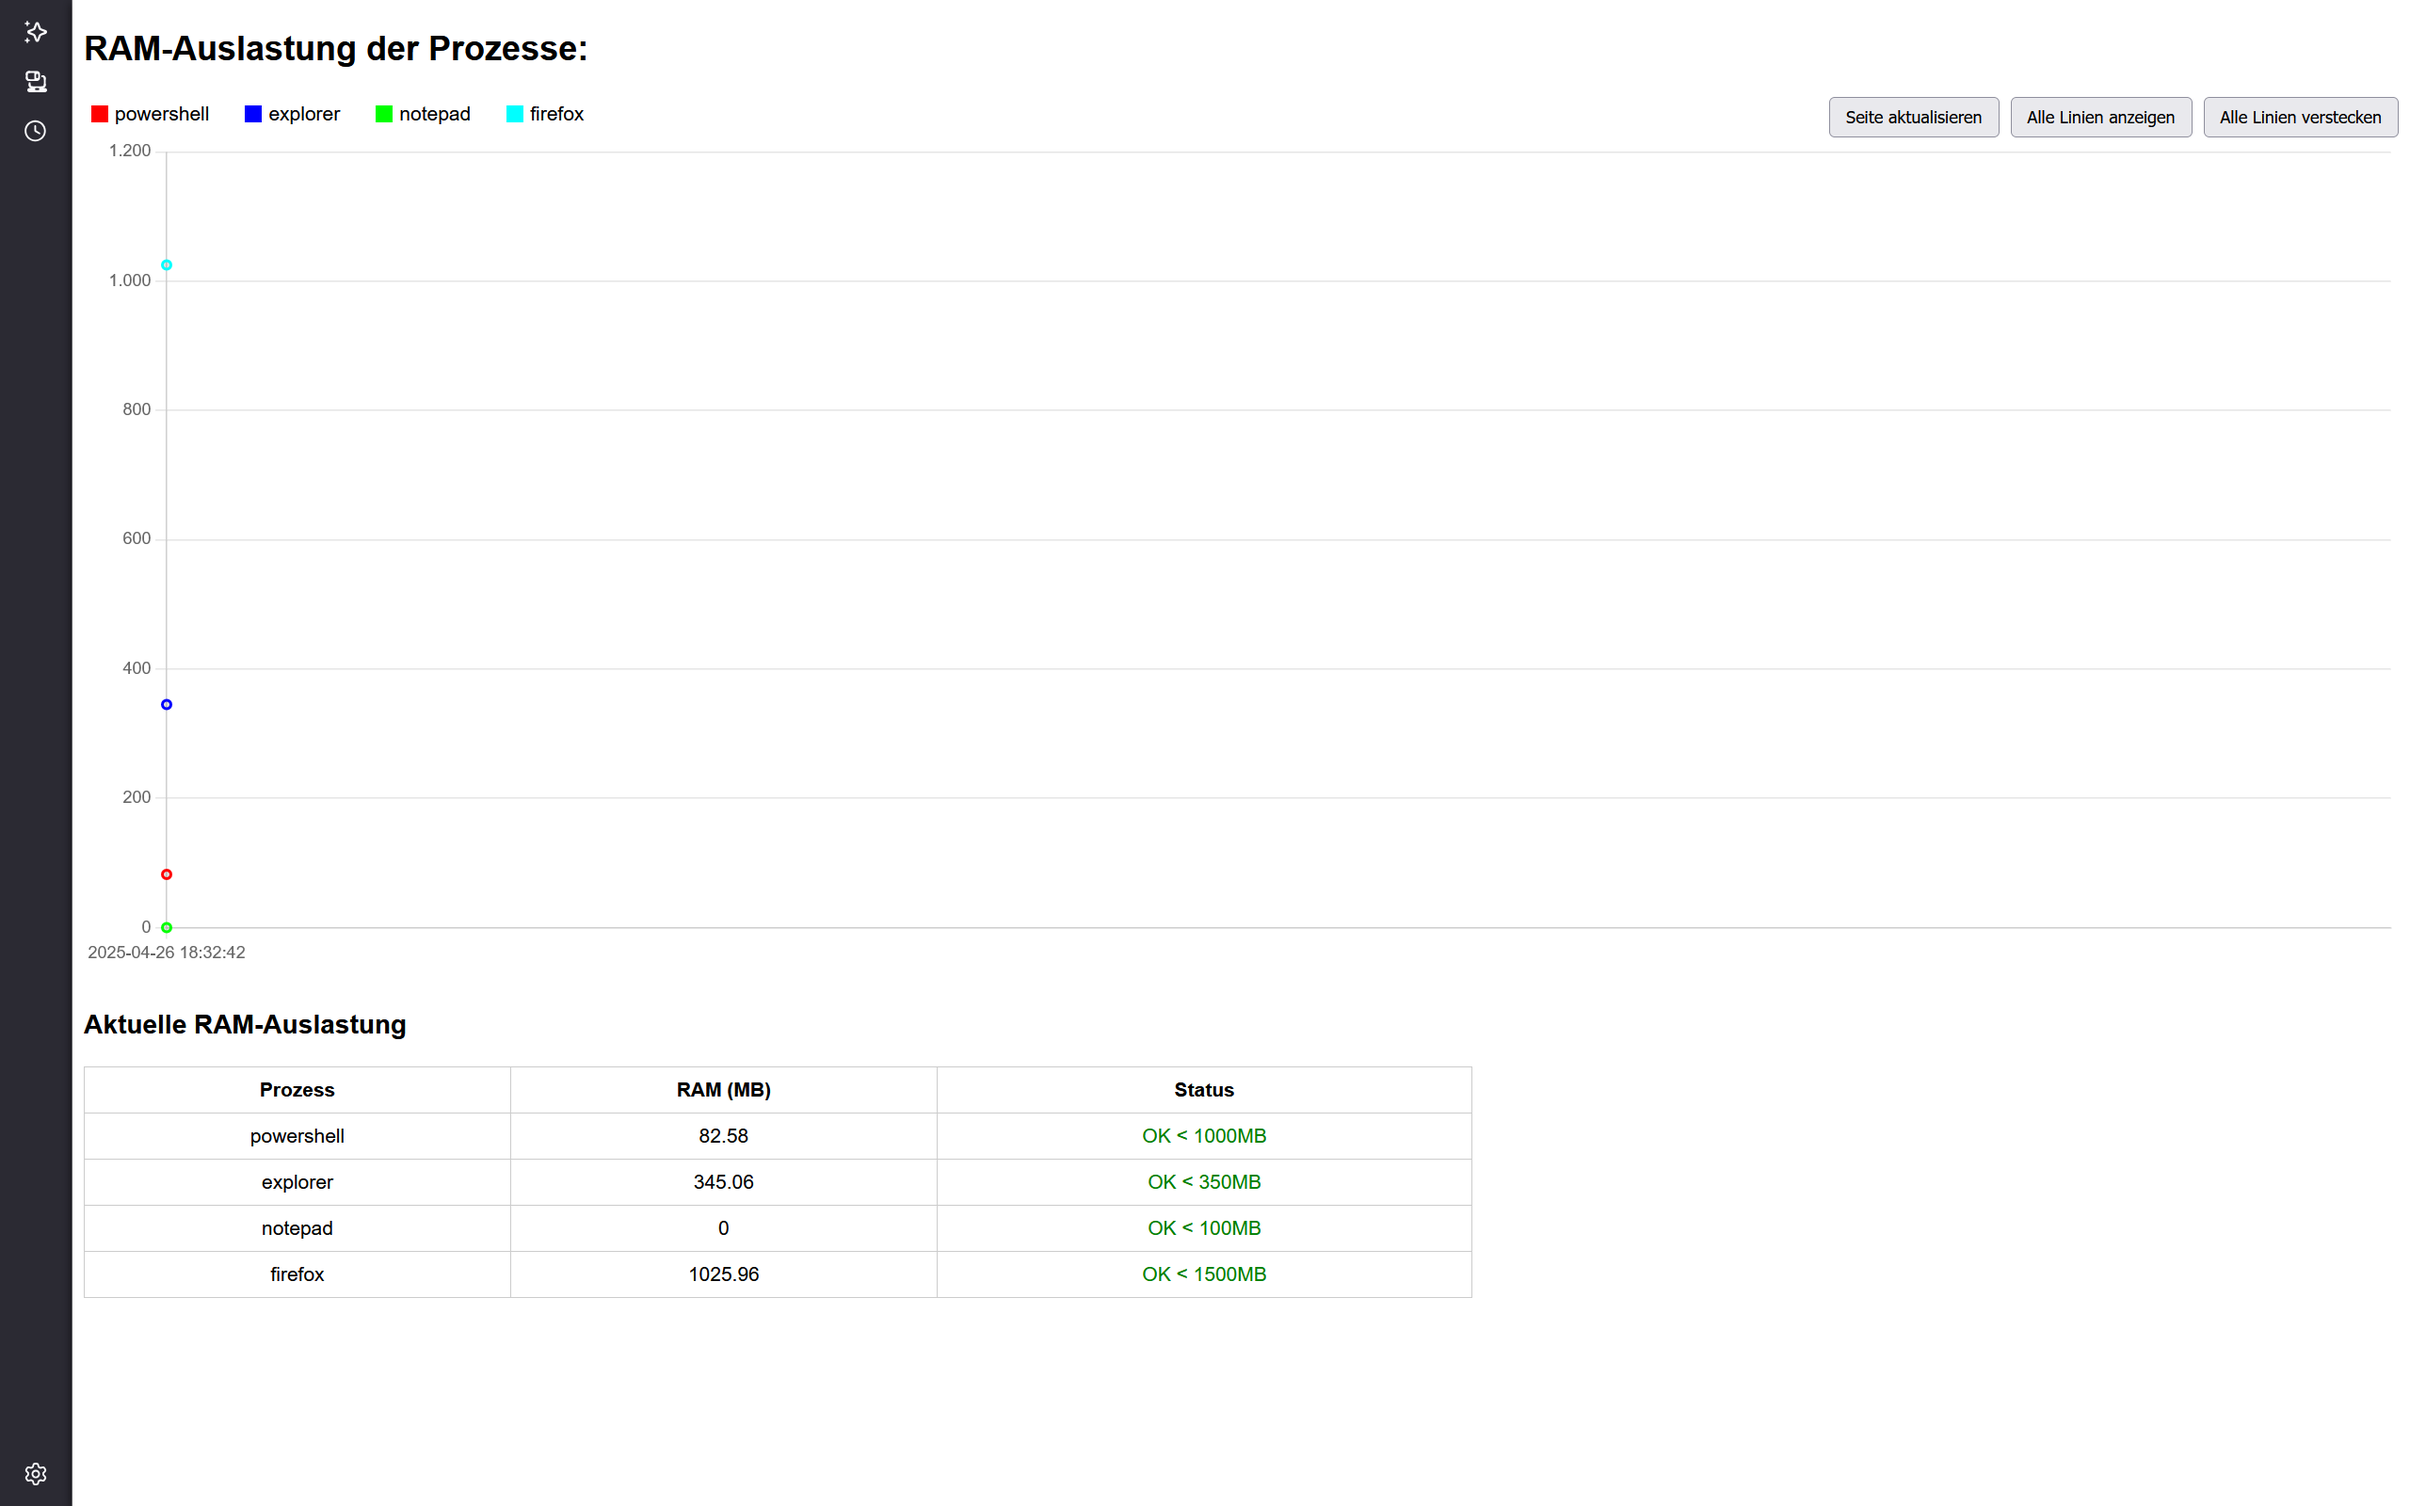
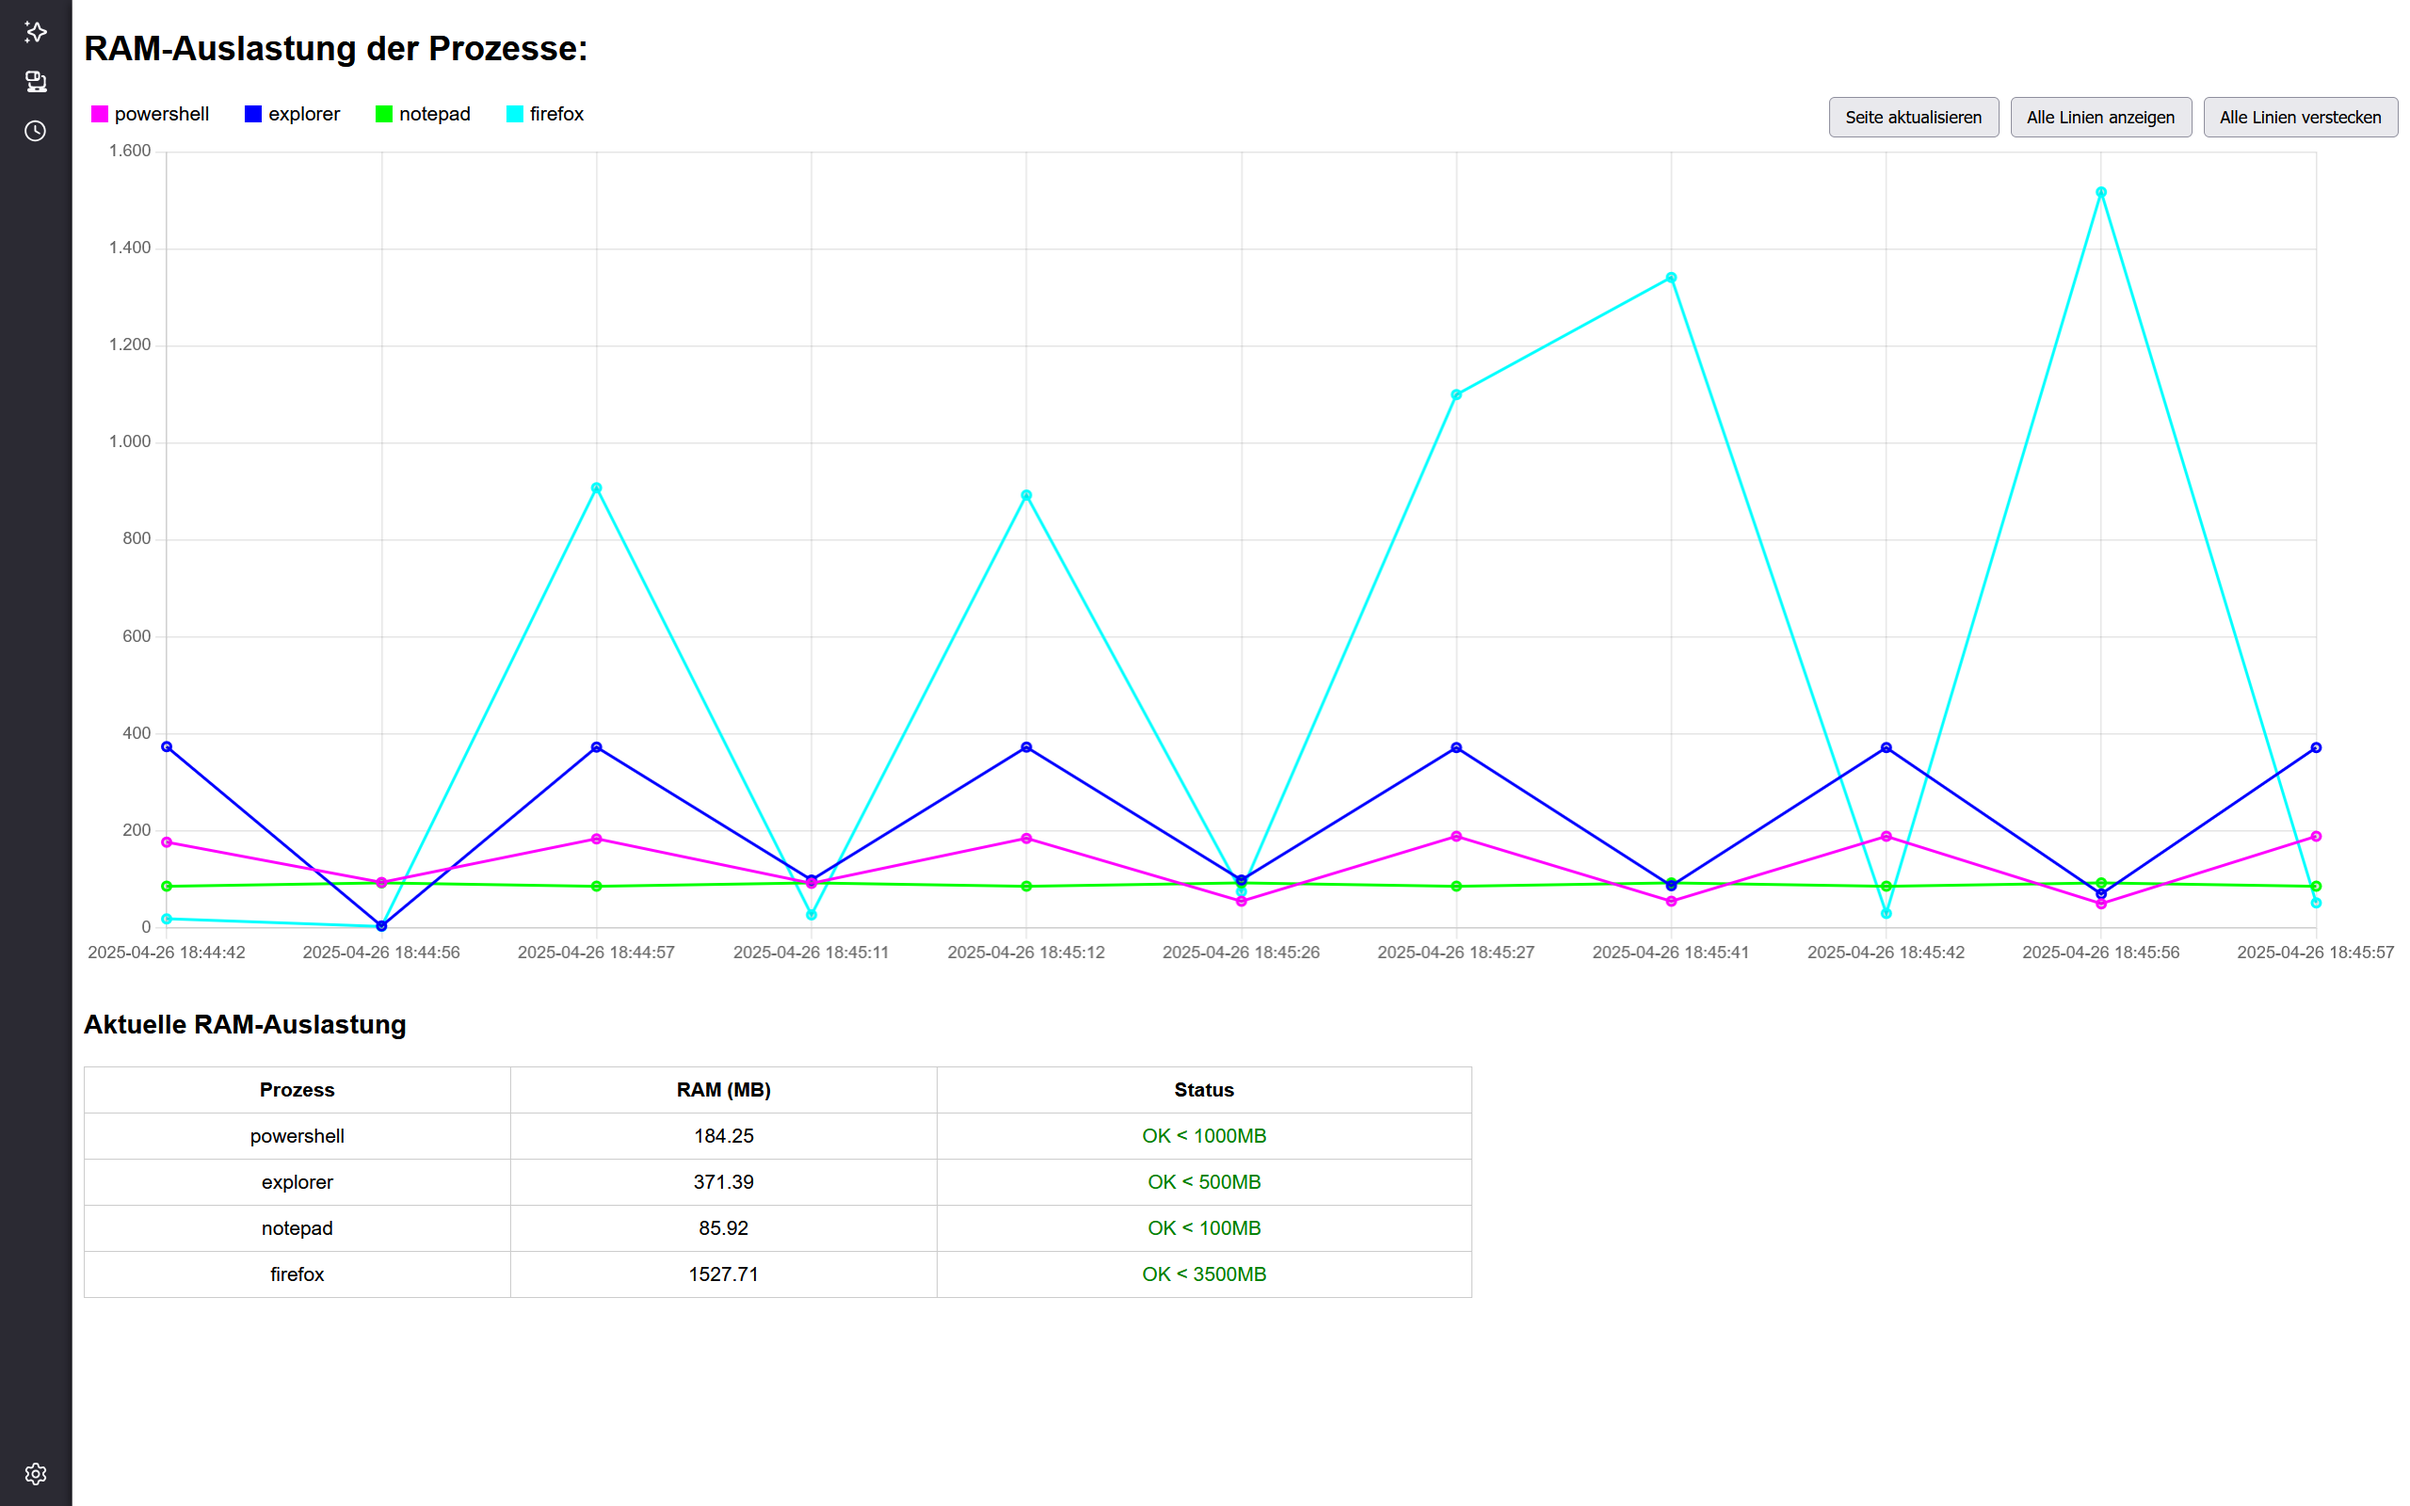
V1.0.0
Initial release

diff --git a/AWSW RAM-Monitor/ram_usage.html b/AWSW RAM-Monitor/ram_usage.html
@@ -20,10 +20,10 @@ body { font-family: Arial; }
 <h2>RAM-Auslastung der Prozesse:</h2>
 <div class='legend-container'>
 <div class='legend' id='customLegend'>
-<div class='legend-item' onclick='toggleDataset("powershell")'><div class='color-box' style='background-color: #FF0000;'></div><span title='Aktueller Verbrauch: 93.41 MB'>powershell</span></div>
- <div class='legend-item' onclick='toggleDataset("explorer")'><div class='color-box' style='background-color: #0000FF;'></div><span title='Aktueller Verbrauch: 344.2 MB'>explorer</span></div>
- <div class='legend-item' onclick='toggleDataset("notepad")'><div class='color-box' style='background-color: #00FF00;'></div><span title='Aktueller Verbrauch: 0 MB'>notepad</span></div>
- <div class='legend-item' onclick='toggleDataset("firefox")'><div class='color-box' style='background-color: #00FFFF;'></div><span title='Aktueller Verbrauch: 1076.7 MB'>firefox</span></div>
+<div class='legend-item' onclick='toggleDataset("powershell")'><div class='color-box' style='background-color: #FFF000;'></div><span title='Aktueller Verbrauch: 92.38 MB'>powershell</span></div>
+ <div class='legend-item' onclick='toggleDataset("explorer")'><div class='color-box' style='background-color: #0000FF;'></div><span title='Aktueller Verbrauch: 379.13 MB'>explorer</span></div>
+ <div class='legend-item' onclick='toggleDataset("notepad")'><div class='color-box' style='background-color: #00FF00;'></div><span title='Aktueller Verbrauch: 85.86 MB'>notepad</span></div>
+ <div class='legend-item' onclick='toggleDataset("firefox")'><div class='color-box' style='background-color: #00FFFF;'></div><span title='Aktueller Verbrauch: 0 MB'>firefox</span></div>
 
 </div>
 <div class='buttons'>
@@ -38,10 +38,10 @@ body { font-family: Arial; }
 <table>
 <thead><tr><th>Prozess</th><th>RAM (MB)</th><th>Status</th></tr></thead>
 <tbody>
-<tr><td>powershell</td><td>93.41</td><td style='color:green;'>OK < 1000MB</td></tr>
- <tr><td>explorer</td><td>344.2</td><td style='color:green;'>OK < 350MB</td></tr>
- <tr><td>notepad</td><td>0</td><td style='color:green;'>OK < 100MB</td></tr>
- <tr><td>firefox</td><td>1076.7</td><td style='color:green;'>OK < 1500MB</td></tr>
+<tr><td>powershell</td><td>92.38</td><td style='color:green;'>OK < 1000MB</td></tr>
+ <tr><td>explorer</td><td>379.13</td><td style='color:green;'>OK < 500MB</td></tr>
+ <tr><td>notepad</td><td>85.86</td><td style='color:green;'>OK < 100MB</td></tr>
+ <tr><td>firefox</td><td>0</td><td style='color:green;'>OK < 1500MB</td></tr>
 
 </tbody>
 </table>
@@ -50,7 +50,7 @@ body { font-family: Arial; }
 const ctx = document.getElementById('ramChart').getContext('2d');
 const ramChart = new Chart(ctx, {
 type: 'line',
-data: { labels: ["2025-04-26 18:32:42", "2025-04-26 18:32:57", "2025-04-26 18:33:12"], datasets: [{label: 'powershell', data: [82,58, 90,11, 93,41], borderColor: '#FF0000', borderWidth: 2, fill: false, hidden: false},{label: 'explorer', data: [345,06, 344,3, 344,2], borderColor: '#0000FF', borderWidth: 2, fill: false, hidden: false},{label: 'notepad', data: [0, 0, 0], borderColor: '#00FF00', borderWidth: 2, fill: false, hidden: false},{label: 'firefox', data: [1025,96, 1146,56, 1076,7], borderColor: '#00FFFF', borderWidth: 2, fill: false, hidden: false}] },
+data: { labels: ["2025-04-26 18:44:42", "2025-04-26 18:44:56", "2025-04-26 18:44:57", "2025-04-26 18:45:11", "2025-04-26 18:45:12", "2025-04-26 18:45:26", "2025-04-26 18:45:27", "2025-04-26 18:45:41", "2025-04-26 18:45:42", "2025-04-26 18:45:56", "2025-04-26 18:45:57", "2025-04-26 18:46:11", "2025-04-26 18:46:12", "2025-04-26 18:46:26", "2025-04-26 18:46:28", "2025-04-26 18:46:41", "2025-04-26 18:46:56"], datasets: [{label: 'powershell', data: [176,93, 183,91, 184,54, 188,54, 188,49, 188,43, 186,23, 186,34, 182,69, 182,58, 184,25, 183,39, 184,07, 173,16, 174,34, 91,2, 92,38], borderColor: '#FFF000', borderWidth: 2, fill: false, hidden: false},{label: 'explorer', data: [373,03, 372,98, 372,98, 371,86, 371,69, 371,66, 371,66, 371,66, 371,66, 371,4, 371,39, 371,13, 371,14, 370,91, 370,91, 370,33, 379,13], borderColor: '#0000FF', borderWidth: 2, fill: false, hidden: false},{label: 'notepad', data: [85,92, 85,92, 85,92, 85,92, 85,92, 85,92, 85,92, 85,92, 85,92, 85,92, 85,92, 85,92, 85,92, 85,86, 85,86, 85,86, 85,86], borderColor: '#00FF00', borderWidth: 2, fill: false, hidden: false},{label: 'firefox', data: [18,02, 907,26, 892,74, 1099, 1341,29, 1517,51, 1518,41, 1170,35, 1172,09, 1593,02, 1527,71, 2074,54, 2102,86, 2088,37, 2083,07, 0, 0], borderColor: '#00FFFF', borderWidth: 2, fill: false, hidden: false}] },
 options: {
 responsive: true,
 animation: { duration: 1000 },
